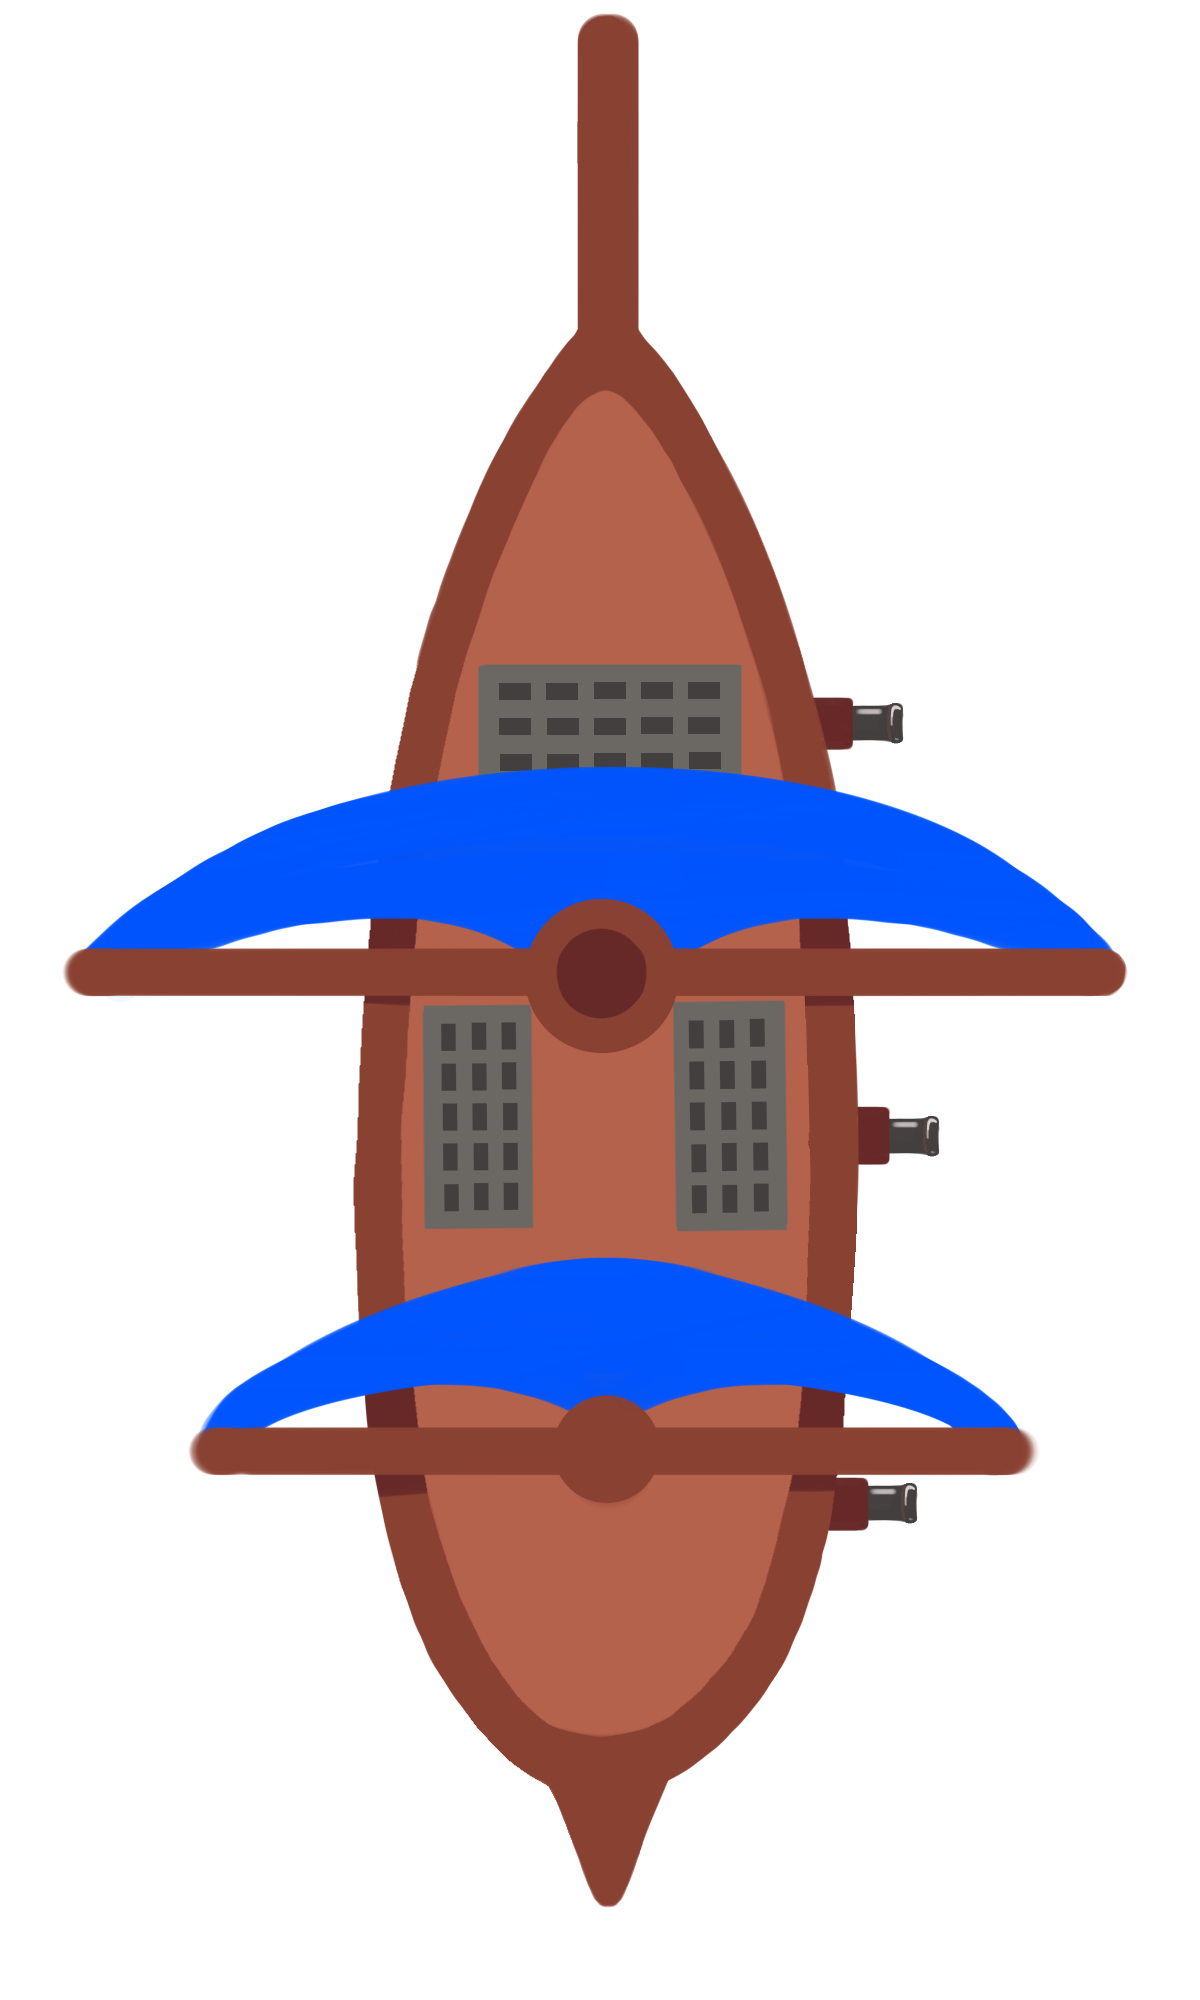
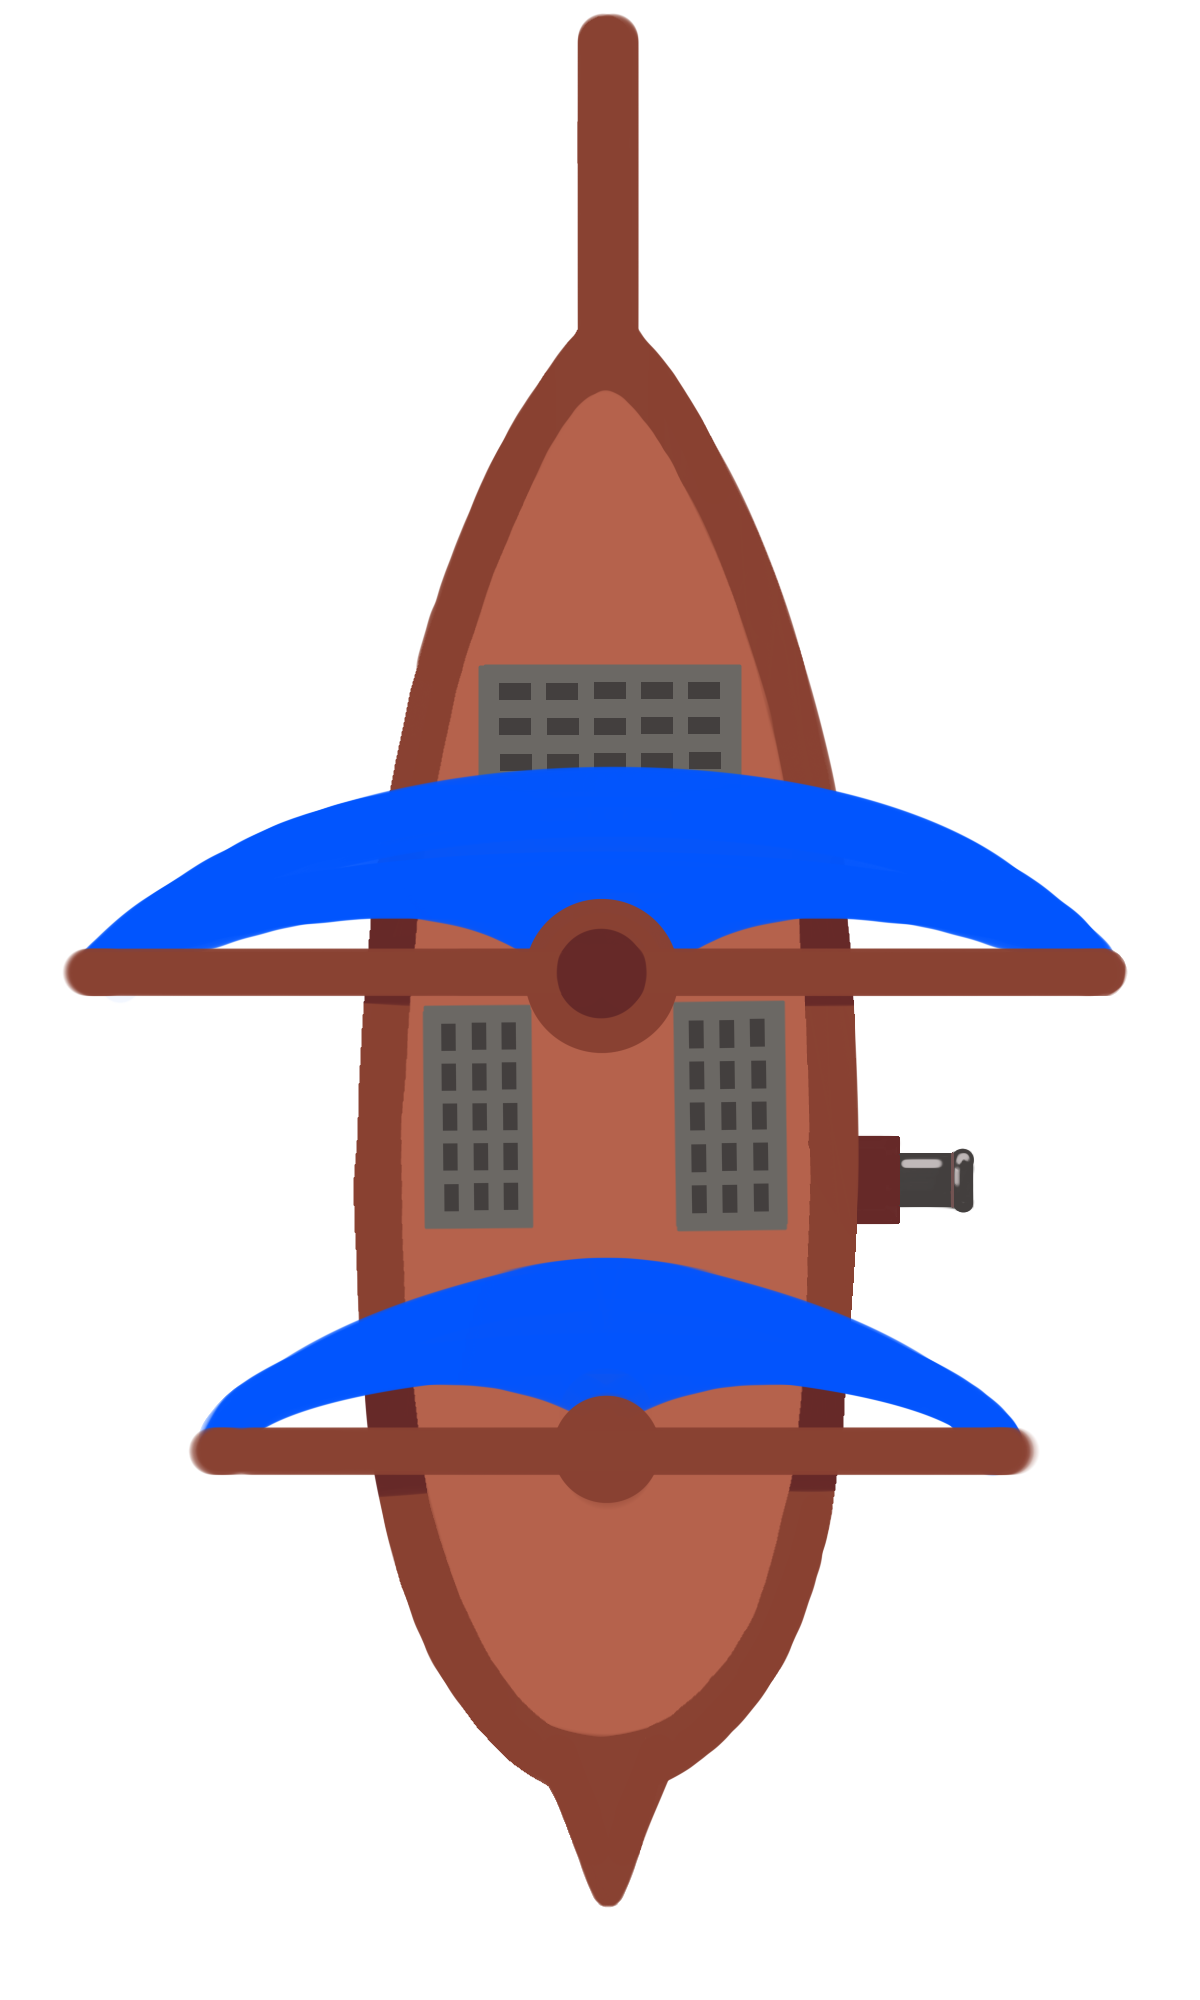
shootingeffect

Changed region(s): [[0.7092, 0.527, 0.8325, 0.62], [0.6783, 0.713, 0.7708, 0.775], [0.6783, 0.341, 0.7708, 0.372]]

diff --git a/app/game/shootEffect.tsx b/app/game/shootEffect.tsx
@@ -4,30 +4,28 @@ import Image from "next/image";
 interface ShootEffectProps {
     x: number;
     y: number;
+    Isleft: boolean;
 }
 
 export default function ShootEffect(props: ShootEffectProps) {
     // set a time of 1 seconds when the when the 1 second is up, remove the explosion
 
     const elem = React.useRef(null);
-
-    React.useEffect(() => {
-        const interval = setInterval(() => {
-            clearInterval(interval);
-        }, 1000);
-        return () => clearInterval(interval);
-    }, []);
+    const x = props.Isleft === true ? props.x + 5 : props.x;
+    const y = props.Isleft === true ? props.y + 10 : props.y + 10;
+    const rotation = props.Isleft === true ? "90deg" : "-90deg";
 
     return (
         <div
             ref={elem}
             className="absolute"
             style={{
-                left: `${props.x}%`,
-                top: `${props.y}%`,
+                left: `${x}%`,
+                top: `${y}%`,
                 width: "5%",   // You can adjust the size
                 height: "5%",  // You can adjust the size
                 zIndex: 10,
+                rotate: `${rotation}`,
             }}
         >
             <Image

diff --git a/app/game/page.tsx b/app/game/page.tsx
@@ -51,6 +51,7 @@ interface ExplosionProps {
 interface ShootEffectProps {
     x: number;
     y: number;
+    Isleft: boolean;
 }
 
 function Player(props: PlayerProps) {
@@ -274,7 +275,7 @@ React.useEffect(() => {
                 ))}
 
             {shootEffect?.map((ex, index) => (
-                    <ShootEffect key={index} x={ex.x} y={ex.y} />
+                    <ShootEffect key={index} x={ex.x} y={ex.y} Isleft={props.IsLeft} />
                 ))}
         </>
     );

diff --git a/app/globals.css b/app/globals.css
@@ -111,3 +111,24 @@ a{
     opacity: 0;
   }
 }
+
+.shooteffectAnimation {
+  animation: shooteffect 2s forwards; /* Adjust 10s to control the speed */
+  /* position: absolute; */
+  top: 0;
+  left: 0;
+  width: 100%;
+  height: 100%;
+}
+
+@keyframes shooteffect {
+  0% {
+    opacity: 0;
+  }
+  30% {
+    opacity: 1;
+  }
+  100% {
+    opacity: 0;
+  }
+}
